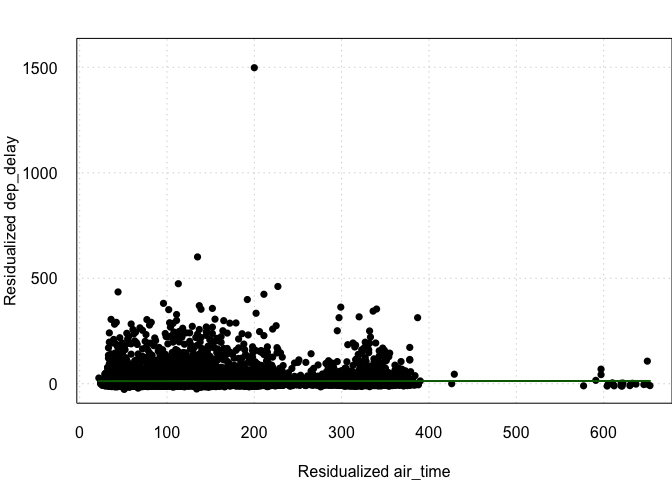
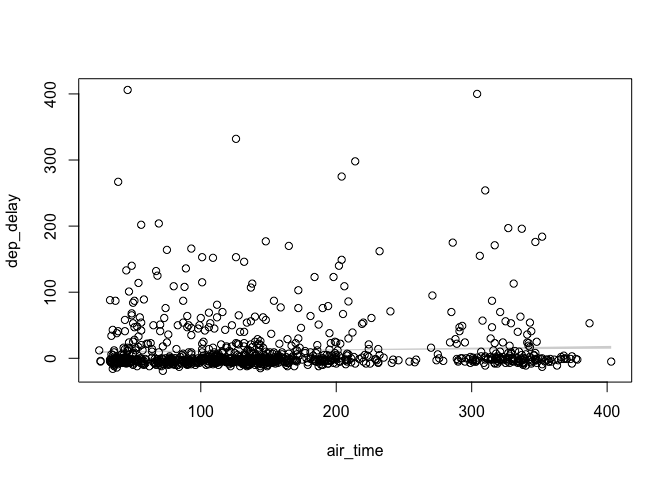
Switch to `tinyplot`

diff --git a/README.md b/README.md
@@ -29,19 +29,20 @@ library(fwlplot)
 library(fixest)
 library(data.table)
 library(ggplot2)
-#> Warning: package 'ggplot2' was built under R version 4.3.1
 theme_set(theme_light(base_size = 16))
 
 flights <- data.table::fread("https://raw.githubusercontent.com/Rdatatable/data.table/master/vignettes/flights14.csv")
 flights$long_distance = (flights$distance > 2000)
 # Sample 10000 rows
 sample = flights[sample(nrow(flights), 10000), ]
+```
 
+``` r
 # Without covariates = scatterplot
 fwl_plot(dep_delay ~ air_time, data = sample)
 ```
 
-<img src="man/figures/README-unnamed-chunk-2-1.png" width="100%" />
+<img src="man/figures/README-unnamed-chunk-3-1.png" width="100%" />
 
 ``` r
 # With covaraites = FWL'd scatterplot
@@ -51,7 +52,7 @@ fwl_plot(
 )
 ```
 
-<img src="man/figures/README-unnamed-chunk-3-1.png" width="100%" />
+<img src="man/figures/README-unnamed-chunk-4-1.png" width="100%" />
 
 ### Plot random sample
 
@@ -67,7 +68,7 @@ fwl_plot(
 )
 ```
 
-<img src="man/figures/README-unnamed-chunk-4-1.png" width="100%" />
+<img src="man/figures/README-unnamed-chunk-5-1.png" width="100%" />
 
 ### Full `feols` compatability
 
@@ -80,16 +81,16 @@ feols(
   data = sample, subset = ~long_distance, cluster = ~origin
 )
 #> OLS estimation, Dep. Var.: dep_delay
-#> Observations: 1,742 
+#> Observations: 1,717 
 #> Subset: long_distance 
-#> Fixed-effects: origin: 2,  dest: 16
+#> Fixed-effects: origin: 2,  dest: 14
 #> Standard-errors: Clustered (origin) 
-#>          Estimate Std. Error t value Pr(>|t|) 
-#> air_time 0.093106   0.092359 1.00808  0.49744 
+#>           Estimate Std. Error   t value Pr(>|t|) 
+#> air_time -0.016646   0.100526 -0.165591  0.89553 
 #> ---
 #> Signif. codes:  0 '***' 0.001 '**' 0.01 '*' 0.05 '.' 0.1 ' ' 1
-#> RMSE: 35.2     Adj. R2: 0.003127
-#>              Within R2: 0.00175
+#> RMSE: 42.1     Adj. R2: 0.010301
+#>              Within R2: 3.934e-5
 ```
 
 ``` r
@@ -99,7 +100,7 @@ fwl_plot(
 )
 ```
 
-<img src="man/figures/README-unnamed-chunk-6-1.png" width="100%" />
+<img src="man/figures/README-unnamed-chunk-7-1.png" width="100%" />
 
 ### Multiple estimation
 
@@ -111,24 +112,37 @@ fwl_plot(
 )
 ```
 
-<img src="man/figures/README-unnamed-chunk-7-1.png" width="100%" />
+<img src="man/figures/README-unnamed-chunk-8-1.png" width="100%" />
 
 ``` r
 # `split` sample
 fwl_plot(
   c(dep_delay, arr_delay) ~ air_time | origin + dest, 
-  data = sample, split = ~long_distance
+  data = sample, split = ~long_distance, n_sample = 1000
 )
 ```
 
-<img src="man/figures/README-unnamed-chunk-8-1.png" width="100%" />
+<img src="man/figures/README-unnamed-chunk-9-1.png" width="100%" />
 
 ``` r
 # `fsplit` = `split` sample and Full sample
 fwl_plot(
   c(dep_delay, arr_delay) ~ air_time | origin + dest, 
-  data = sample, fsplit = ~long_distance
+  data = sample, fsplit = ~long_distance, n_sample = 1000
 )
 ```
 
-<img src="man/figures/README-unnamed-chunk-9-1.png" width="100%" />
+<img src="man/figures/README-unnamed-chunk-10-1.png" width="100%" />
+
+### ggplot2
+
+``` r
+p = fwl_plot(
+  c(dep_delay, arr_delay) ~ air_time | origin + dest, 
+  data = sample, fsplit = ~long_distance, 
+  n_sample = 1000, ggplot = TRUE
+)
+p + theme_grey(base_size = 15)
+```
+
+<img src="man/figures/README-unnamed-chunk-11-1.png" width="100%" />
